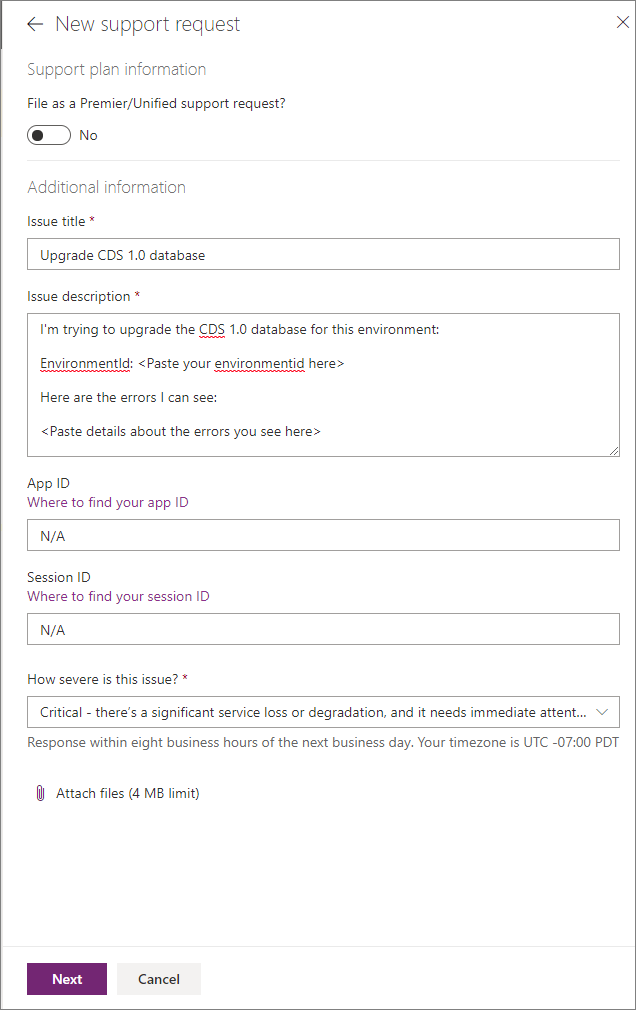
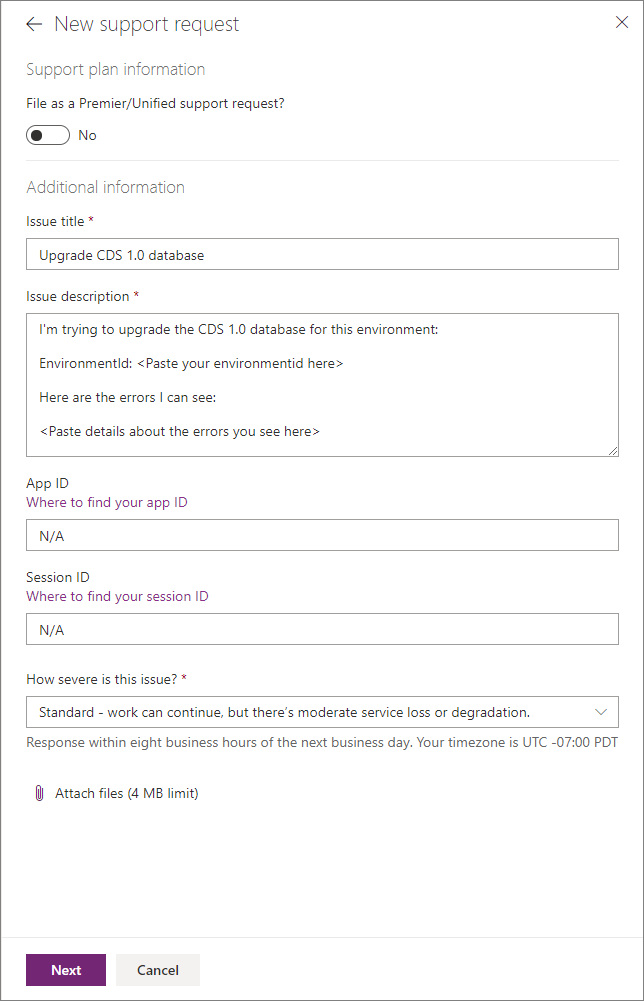
fix per CSS req

diff --git a/common-data-service/upgradecds/errors-resolutions.md b/common-data-service/upgradecds/errors-resolutions.md
@@ -194,7 +194,7 @@ To open a support ticket:
     - Make sure the Issue title is *Upgrade CDS 1.0 database*.
     - Enter the details about your upgrade in the **Issue description**.
     - It is not important to include **App ID** or **Session ID** values for issues related to upgrades.
-    - Set the severity as **Critical**
+    - Set the severity as **Standard**
     - Attach any error logs you have downloaded.
 
     > [!IMPORTANT]
